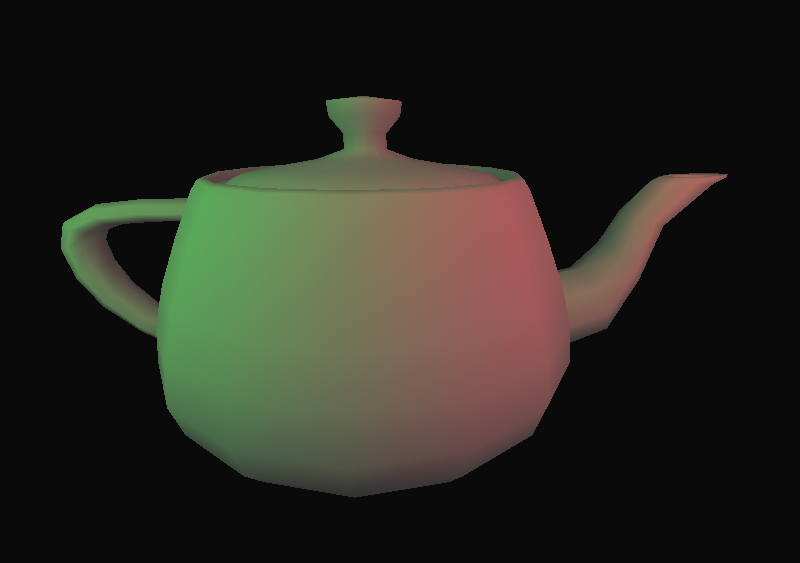
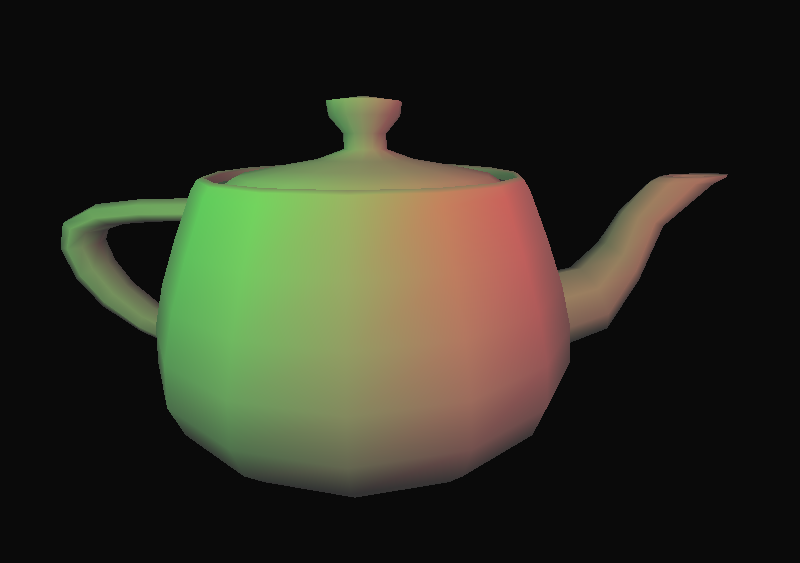
better screenshot

diff --git a/src/main/java/demo3d/Teapot.java b/src/main/java/demo3d/Teapot.java
@@ -60,8 +60,8 @@ public class Teapot extends Demo3d {
 
     var lightSourceRed = new VariableIntensityLightSource3d(10, new FeynColor(255, 0, 0));
     var lightSourceGreen = new VariableIntensityLightSource3d(10, new FeynColor(0, 255, 0));
-    lightSourceRed.setPosition(new Vector3d( 5, 4, 5));
-    lightSourceGreen.setPosition(new Vector3d(-5, 4, 5));
+    lightSourceRed.setPosition(new Vector3d( 3, 4, 5));
+    lightSourceGreen.setPosition(new Vector3d(-3, 4, 5));
     FeynApp3d.addDiffuseLightSource(lightSourceRed);
     FeynApp3d.addDiffuseLightSource(lightSourceGreen);
     
